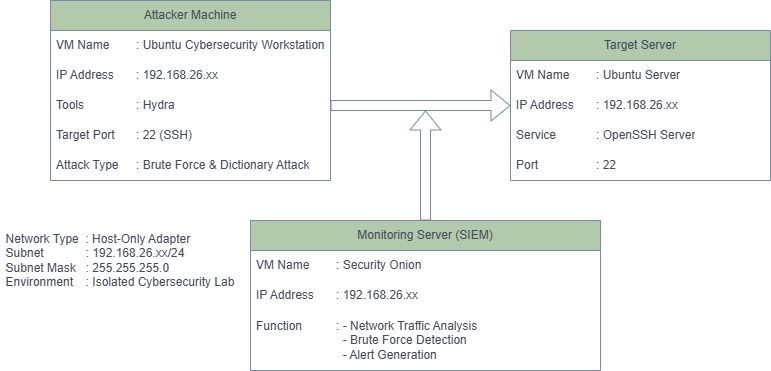
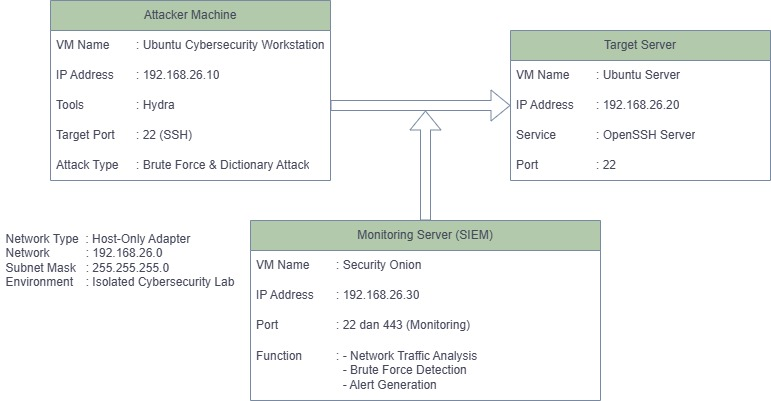
update network dan toplogy

diff --git a/README.md b/README.md
@@ -25,26 +25,30 @@ Lab ini menggunakan arsitektur tiga sistem dengan konfigurasi sebagai berikut:
 
 | Hostname | IP Address | OS | Role |
 |----------|------------|-----|------|
-| Ubuntu Cybersecurity Workstation | 192.168.26.xx | Ubuntu | Attacker Machine |
-| Ubuntu Server | 192.168.26.xx | Ubuntu Server | Target Server |
-| Security Onion | 192.168.26.xx | Security Onion | Monitoring/SIEM |
+| Ubuntu Cybersecurity Workstation | 192.168.26.10 | Ubuntu | Attacker Machine |
+| Ubuntu Server | 192.168.26.20 | Ubuntu Server | Target Server |
+| Security Onion | 192.168.26.30 | Security Onion | Monitoring/SIEM |
 
 #### 1. Attacker Machine
 - **VM Name**: Ubuntu Cybersecurity Workstation
-- **IP Address**: 192.168.26.xx
+- **IP Address**: 192.168.26.10
 - **Tools**: Hydra
+- **Target Port**: 22 (SSH)
+- **Attack Type**: Brute Force & Dictionary Attack
 - **Function**: Melakukan serangan brute force terhadap target SSH
 
 #### 2. Target Server
 - **VM Name**: Ubuntu Server
-- **IP Address**: 192.168.26.xx
+- **IP Address**: 192.168.26.20
 - **Service**: OpenSSH Server
 - **Port**: 22
 - **Function**: Server target yang akan diserang
 
 #### 3. Monitoring Server (SIEM)
 - **VM Name**: Security Onion
-- **IP Address**: 192.168.26.xx
+- **IP Address**: 192.168.26.30
+- **Management Ports**: 22 (SSH), 443 (HTTPS Web Interface)
+- **Monitoring Mode**: Passive Network Capture
 - **Function**: 
   - Network Traffic Analysis
   - Brute Force Detection

diff --git a/docs/design/ip_plan.md b/docs/design/ip_plan.md
@@ -11,28 +11,30 @@
 
 | Hostname | IP Address | OS |
 |----------|------------|-----|
-| Ubuntu Cybersecurity Workstation (Attacker) | 192.168.26.xx | Ubuntu |
-| Ubuntu Server (Target) | 192.168.26.xx | Ubuntu Server |
-| Security Onion (Monitoring/SIEM) | 192.168.26.xx | Security Onion |
+| Ubuntu Cybersecurity Workstation (Attacker) | 192.168.26.10 | Ubuntu |
+| Ubuntu Server (Target) | 192.168.26.20 | Ubuntu Server |
+| Security Onion (Monitoring/SIEM) | 192.168.26.30 | Security Onion |
 
 ## System Details
 
 ### Attacker Machine
 - **VM Name**: Ubuntu Cybersecurity Workstation
-- **IP Address**: 192.168.26.xx
+- **IP Address**: 192.168.26.10
 - **Tools**: Hydra
 - **Target Port**: 22 (SSH)
 - **Attack Type**: Brute Force & Dictionary Attack
 
 ### Target Server
 - **VM Name**: Ubuntu Server
-- **IP Address**: 192.168.26.xx
+- **IP Address**: 192.168.26.20
 - **Service**: OpenSSH Server
 - **Port**: 22
 
 ### Monitoring Server (SIEM)
 - **VM Name**: Security Onion
-- **IP Address**: 192.168.26.xx
+- **IP Address**: 192.168.26.30
+- **Management Ports**: 22 (SSH), 443 (HTTPS)
+- **Monitoring Mode**: Passive Network Capture
 - **Function**: 
   - Network Traffic Analysis
   - Brute Force Detection
